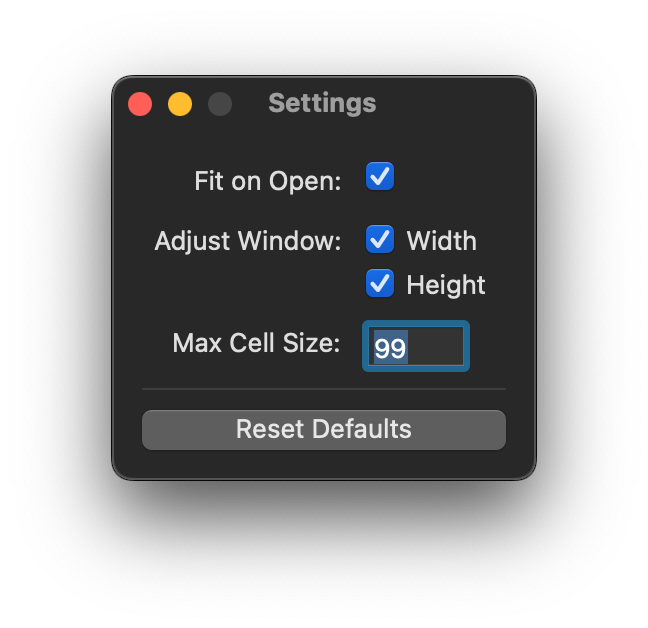
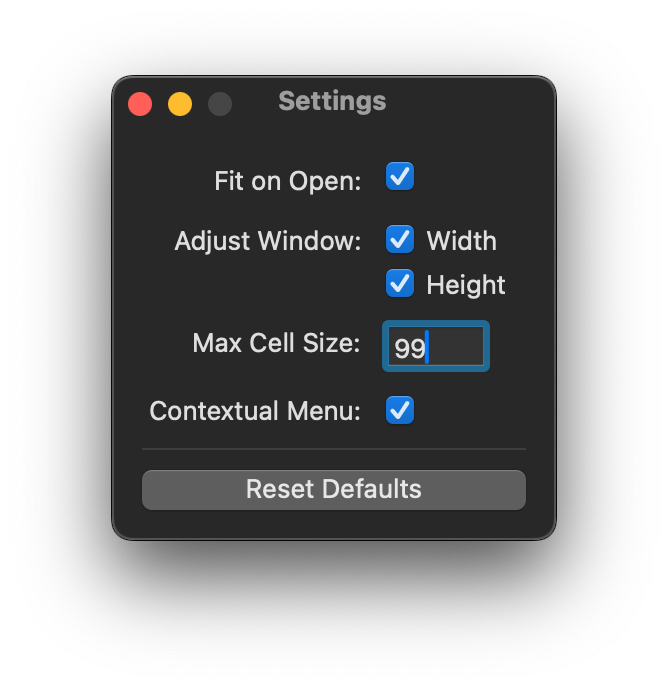
Clean up, touch version number

Changed region(s): [[0.1543, 0.0908, 0.8333, 0.7866]]

diff --git a/source/lib/main.py b/source/lib/main.py
@@ -73,7 +73,7 @@ def adjust_window(font_window, width_diff, height_diff, view_width, window_width
         # Avoid making window too small
         if w + width_diff < 400:  
             width_diff = 400 - w
-        if h + height_diff < 350:  
+        if h + height_diff < 338:  
             height_diff = 338 - h
         window.setFrame_display_animate_(
             ((x - width_diff, y), (w + width_diff, h + height_diff)), True, False
@@ -126,7 +126,7 @@ class FitGlyphCells(Subscriber):
 
         # Get view dimensions
         view_width, view_height, fo_width, fo_height, sets_width, window_width = get_view_dimensions(font_window)
-    
+
         # Calculate grid layout
         font_overview = font_window.fontOverview
         glyph_collection = font_overview.getGlyphCollection()
@@ -152,7 +152,7 @@ class FitGlyphCells(Subscriber):
         if adjust_width or adjust_height:
             width_diff, height_diff = 0, 0
             if adjust_width:
-                width_diff = (new_view_width + sets_width) - (view_width + sets_width)
+                width_diff  = new_view_width - view_width
             if adjust_height:
                 height_diff = new_view_height - view_height
             adjust_window(

diff --git a/README.md b/README.md
@@ -46,6 +46,9 @@ This is the maximum size you’ll allow the cells to get when fitting. For examp
 
 > Note: The window will still attempt to resize and fit against the cells.
 
+### Contextual Menu
+
+Toggle this on if you’d like "Fit Glyph Cells" to show up in the menu when you right click in Font Overview.
 
 
 ## Known issues:

diff --git a/source/html/index.md b/source/html/index.md
@@ -46,6 +46,9 @@ This is the maximum size you’ll allow the cells to get when fitting. For examp
 
 > Note: The window will still attempt to resize and fit against the cells.
 
+### Contextual Menu
+
+Toggle this on if you’d like "Fit Glyph Cells" to show up in the menu when you right click in Font Overview.
 
 
 ## Known issues:
